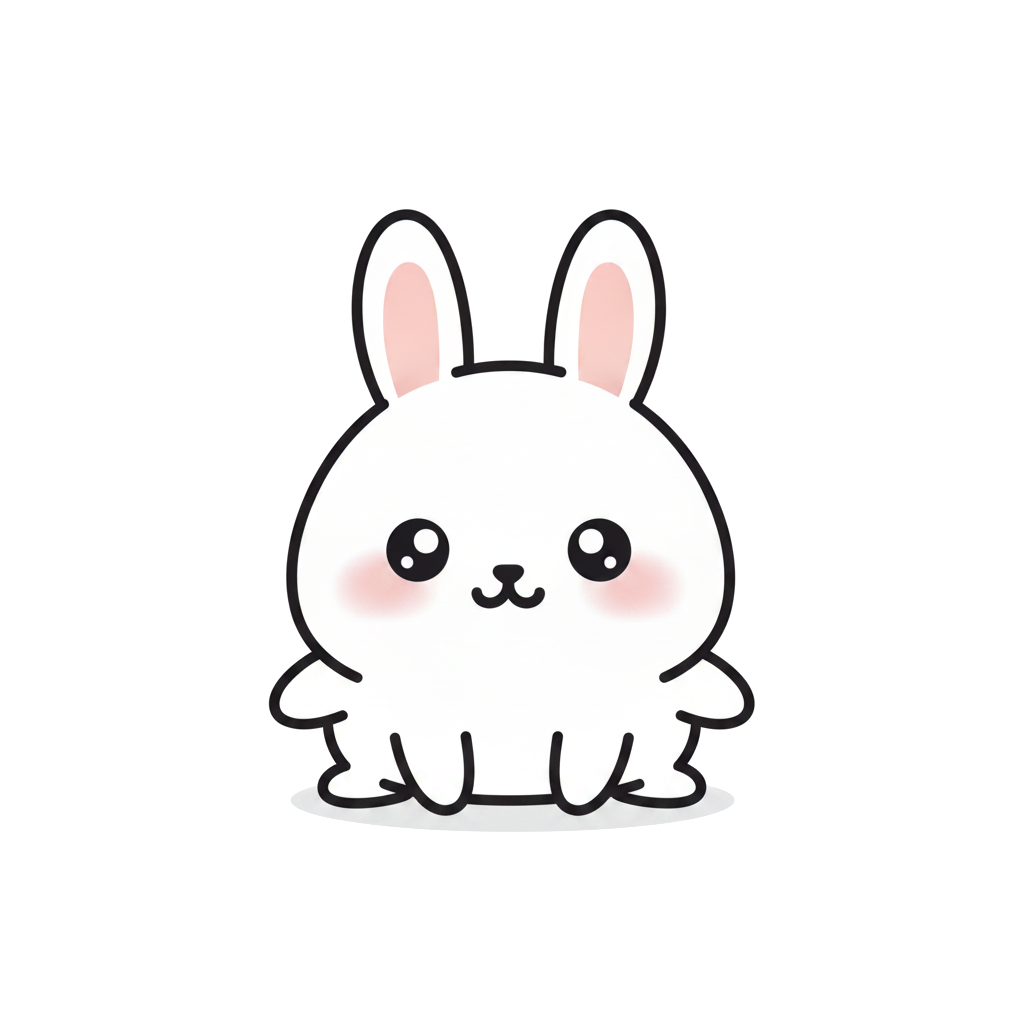
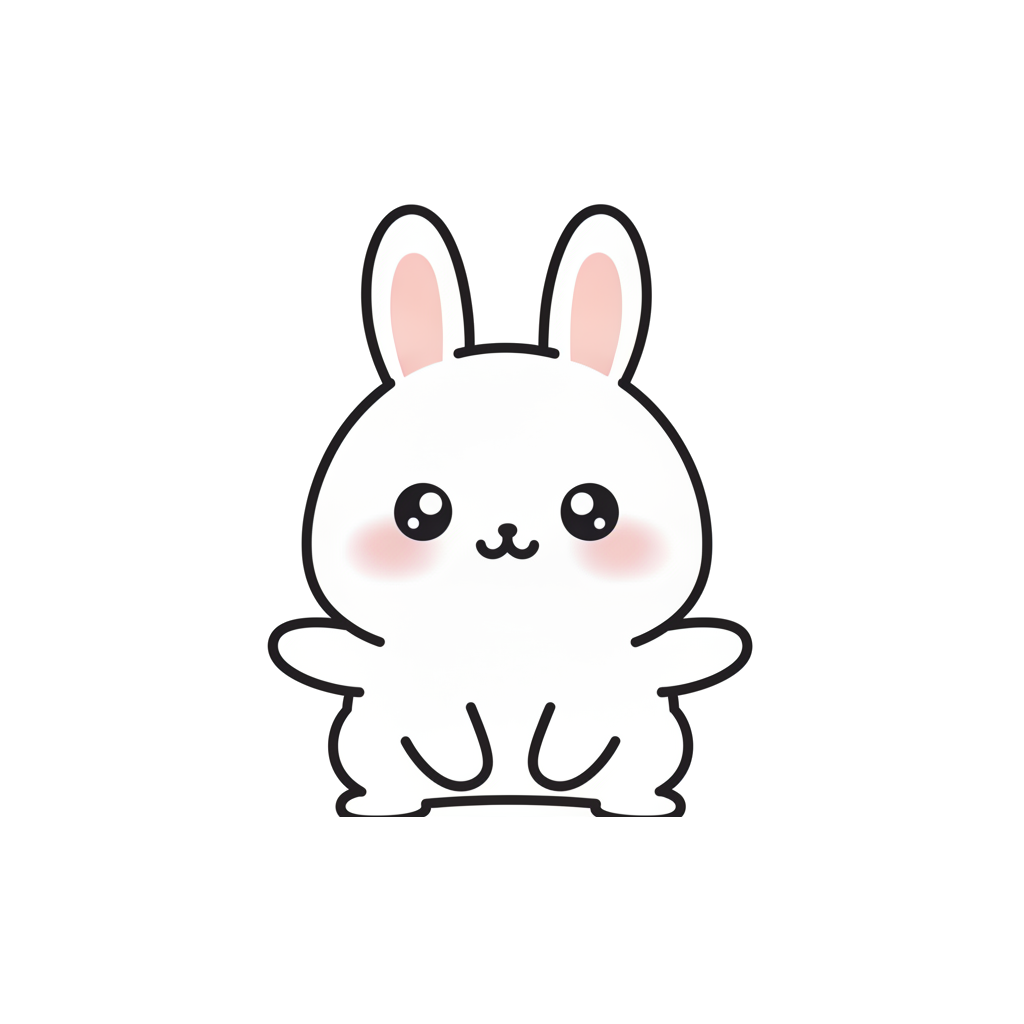
emoticon: bounce2 1~3번 재생성 롤백 — 밑면 프롬프트 시도 실패
밑면을 곡선으로 지정해도 1·3번은 그대로 직선이었고 2번은 다리 4개에
회색 그림자 타원까지 생겨 더 나빠졌다. 이전 프레임으로 되돌리고
포즈 문장도 원복한다. redoCounts는 실제 소모대로 남긴다.
교훈 55를 실패 기록으로 정정 — 같은 문구로 재시도 금지.

Changed region(s): [[0.25, 0.4375, 0.75, 0.8125], [0.3125, 0.1875, 0.6562, 0.4688]]

diff --git a/work/emoticon/lesson_learned.md b/work/emoticon/lesson_learned.md
@@ -245,15 +245,21 @@
 54. **우리 깜빡임은 깜빡임이 아니라 표정 변화다.** 실측 타이밍 대조
     (`doc/guide-by-movement/blink.md`): 감기 332ms(진짜 50~100ms), 최하점 체류 666ms
     (진짜 ~0). 12fps에서 생리적으로 정확한 감기는 **1프레임**이다.
-55. **바닥선은 후처리가 아니라 프롬프트에서 막아야 한다.** 포즈 문장에
-    `on the ground` / `off the ground`가 있으면 모델이 접지를 **평평한 밑변**으로
-    그린다. 이건 캐릭터 아래 따로 뜬 띠가 아니라 실루엣에 융합된 선이라
-    `dropGroundLine`(밑단 두께 최빈값 방식)이 원리적으로 못 뗀다 — 떼려면
-    몸통을 자른다. bounce2 1~3번 프레임이 이 경우였고, 공중 프레임(4~6)만
-    밑면이 곡선이라 **프레임 간 밑면 모양이 튀는 것**으로 사람 눈에 띄었다.
-    → 처방: 바닥 단어를 쓰지 말고 밑면 **모양**을 긍정문으로 고정한다
-    (`the underside of the body between the two feet is a smooth downward curve`).
-    후처리는 캐릭터와 떨어진 띠만 담당한다.
+55. **밑면 모양은 프롬프트로 안 잡힌다 — 실패 기록.** bounce2에서 사람이
+    "수평선이 남아있다"고 지적한 것은 캐릭터 아래 따로 뜬 띠가 아니라
+    **실루엣에 융합된 평평한 밑변**이었다(접지 프레임 1~3만 직선, 공중
+    프레임 4~6은 곡선 → 재생 중 밑면이 튄다). 융합돼 있으니
+    `dropGroundLine`은 원리적으로 못 뗀다 — 떼면 발을 자른다.
+    가설은 포즈 문장의 `on the ground`/`off the ground`가 접지를 평평하게
+    그리게 한다는 것이었고, 바닥 단어를 빼고 밑면 모양을 긍정문으로 고정해
+    (`the underside of the body between the two feet is a smooth downward curve`)
+    1~3번을 재생성했다. **결과: 실패.** 1·3번 밑면은 그대로 직선이었고,
+    2번은 다리 4개 + 회색 그림자 타원이 생겨 더 나빠져 롤백했다($0.12 소모).
+    → 결론: 밑면 형태는 §22의 "텍스트로 통제 불가" 축에 하나 더 추가된다.
+    모델의 "접지한 귀여운 캐릭터" 관용구라서, 고치려면 리깅처럼
+    **코드가 기하를 잡는** 경로가 필요하다. 같은 문구로 재시도하지 말 것.
+    참고: 사람은 "밑면이 평평한 것" 자체보다 **프레임 간에 평평↔곡선으로
+    바뀌는 것**을 본다. 접지·공중을 한 컷에 섞을 때만 생기는 문제다.
 56. **비전 부품 검사의 첫 오탐: 웅크린 포즈의 발을 팔로 센다.** bounce2 2번
     프레임을 `arms 4`로 신고했으나 실물은 팔 2 + 발 2. 웅크리면 발이 몸 옆으로
     벌어져 팔 nub과 형태가 비슷해진다. 지금까지 오탐 0건이었으니 **정밀도가
